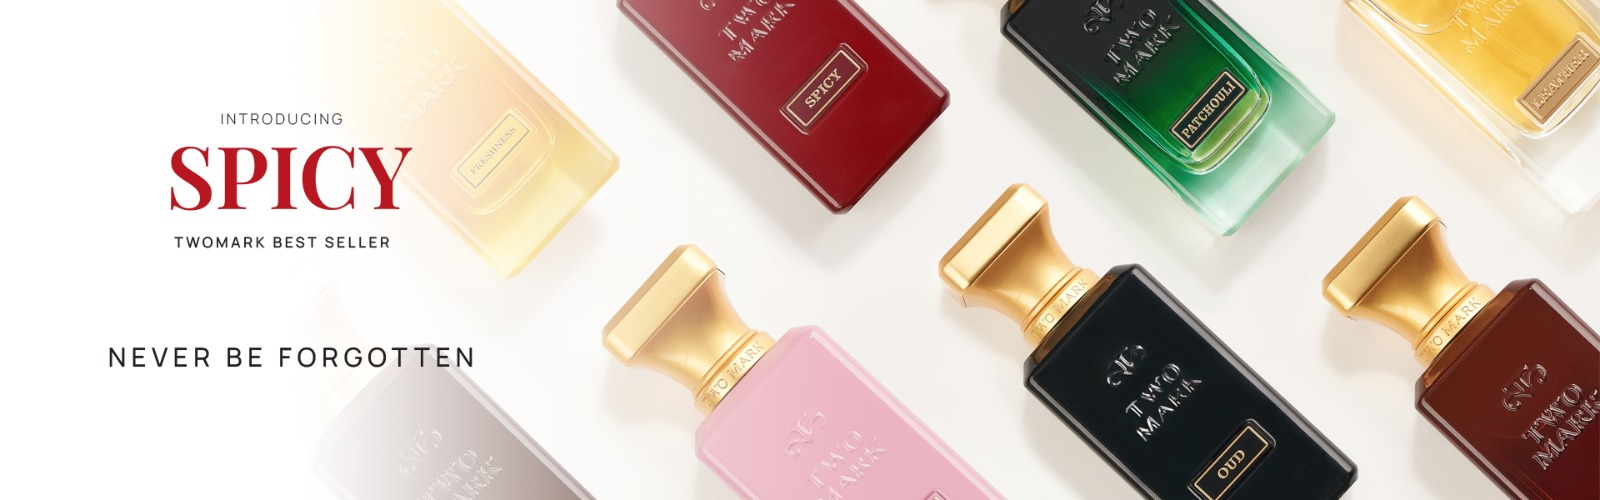
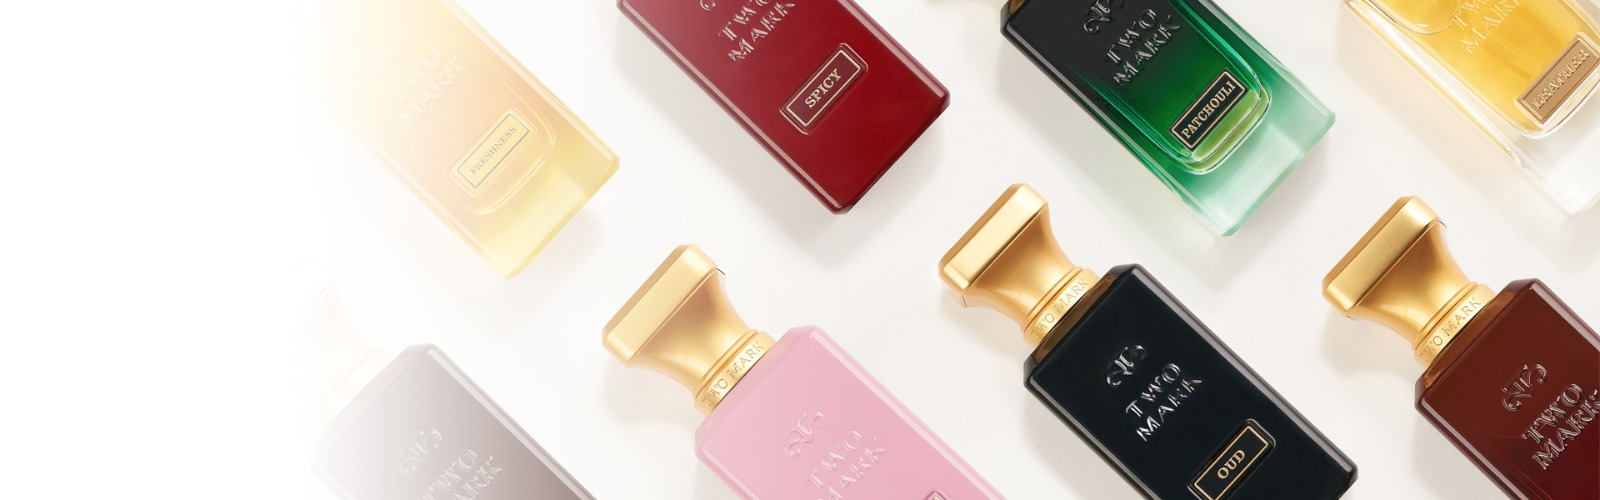
.

Changed region(s): [[0.0938, 0.21, 0.2812, 0.42], [0.0625, 0.69, 0.3125, 0.75], [0.0938, 0.45, 0.25, 0.51]]

diff --git a/index.html b/index.html
@@ -250,11 +250,9 @@
 						  <div class="container " style="padding:0;margin:0;width:100%">
 							  <div class="middle-content2 text-transform">
 								<small class="paragraph letter-spacing">Introducing</small>
-								<div class="title letter-spacing" style="margin: 0px 0 0px;
-								font-size: 75px;
-								color: #bb1018;">Spicy</div>
+								<div class="title letter-spacing" style="">Spicy</div>
 								<div class="paragraph letter-spacing">Two Mark Best Seller</div>
-								<div class="paragraph letter-spacing"style="margin-top:50px;font-size: 28px;">NEVER BE FORGOTTEN
+								<div class="paragraph letter-spacing slogan">NEVER BE FORGOTTEN
 								</div>
 							  </div>
 						  </div>
@@ -448,7 +446,7 @@
 				</div>
 			</div>
 			<div class="banner banner3" id="intro">
-				
+				<p class="paragraph letter-spacing">NEVER BE FORGOTTEN</p>
 			</div>
 			<div class="services">
 				<div class="container">

diff --git a/css/style.css b/css/style.css
@@ -1772,6 +1772,40 @@ padding: 30px 10px;
   background-image: url(../images/banner3.jpeg);
   height:50vh;
   background-position: center;
+  display: flex;
+  align-items: center;
+}
+.slider .banner::after{
+	content:"";
+	display: block;
+	position: absolute;
+	left:0;
+	top:0;
+	width: 100%;
+	height: 100%;
+	background-color: #000;
+	opacity: 0.2;
+}
+.slider .banner .middle-content2{
+	color:white;
+	position: relative;
+	z-index: 1;
+}
+.slider .banner .middle-content2 small{
+	color:white;
+}
+.slider .middle-content2 .title{
+  margin: 0px 0 0px;
+  font-size: 75px;
+  color: #bb1018;
+}
+.slogan{
+  margin-top:50px;font-size: 28px;
+}
+.banner3 p{
+  margin-left:50px;
+  font-size: 30px;
+  color:black;
 }
 .banners .middle-content2 {
   padding:100px 0;  

diff --git a/css/responsive.css b/css/responsive.css
@@ -119,6 +119,7 @@
     border:0;
     cursor: pointer;
   } */
+
 	.upper-header .fa-bars{
 		opacity: 1;
 	}
@@ -453,6 +454,36 @@
 }
 
 @media (max-width: 582px) {
+	
+	.banner3{
+		background-position: center right;
+	}
+	.banner3 p{
+		font-size: 24px;
+		margin-left:0;
+		margin: auto;
+	}
+	.upper-header .logo{
+		width:200px;
+		margin:auto;
+	}
+	.fullwidthbanner{
+		height: 30vh !important;
+	}
+	.slider .banner{
+		background-position: right 10% center;
+		position: relative;
+	}
+	
+
+	.slider .middle-content2 .title{
+		font-size: 50px;
+	}
+	.slogan{
+		margin-top:20px;
+		font-size: 20px;
+	}
+	
 	ul#navlist{
 		top:0;
 
@@ -495,7 +526,7 @@
 	}
 
 	.upper-header {
-		padding: 30px 0 0;
+		padding: 30px 10px 0;
 	}
 
 	.search-input {
